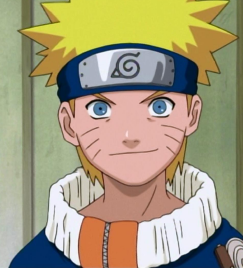
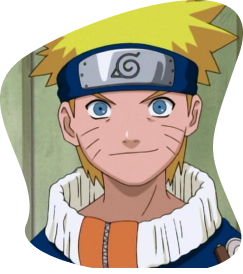
added new image
added correct image and changed positions

diff --git a/src/views/Home.vue b/src/views/Home.vue
@@ -1,8 +1,8 @@
 <template>
   <div class="home">
     <div class="figure">
-      <img src="../assets/images/sailor.png" alt="sailor-moon">
-      <img src="../assets/images/naruto.png" alt="naruto"> 
+      <img class="shojo-img" src="../assets/images/sailor.png" alt="sailor-moon">
+      <img class="shonen-img" src="../assets/images/naruto.png" alt="naruto"> 
     </div>
     <div class="section">
       <Title msg="Which Anime Character Are You?" />

diff --git a/src/assets/scss/views/_home.scss b/src/assets/scss/views/_home.scss
@@ -1,7 +1,3 @@
-img {
-    margin: 10px;
-}
-
 @include min-width(bp(s)) {
     .home {
         display: grid;
@@ -12,6 +8,13 @@ img {
         align-items: center;
         justify-content: center;
         flex-flow: column wrap;
+    }
+    .shojo-img {
+        margin-right: 1em;
+    }
+    .shonen-img{
+        margin-top: 1.5em;
+        float: right;
     }
 };
 
